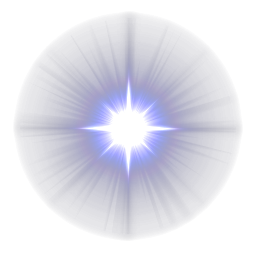
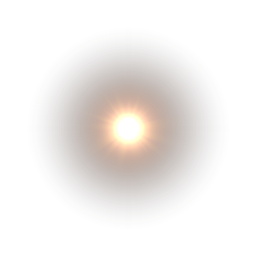
svn4089
rr_gl, sceneviewer:
*mirne upravene lensflary

diff --git a/include/Lightsprint/GL/SceneViewer.h b/include/Lightsprint/GL/SceneViewer.h
@@ -141,8 +141,8 @@ struct SceneViewerState
 		renderLightmapsBilinear = 1;
 		renderBloom = 0;
 		renderLensFlare = 1;
-		lensFlareSize = 9;
-		lensFlareId = 107;
+		lensFlareSize = 5;
+		lensFlareId = 342;
 		renderVignette = 0;
 		renderHelp = 0;
 		renderLogo = 0;
